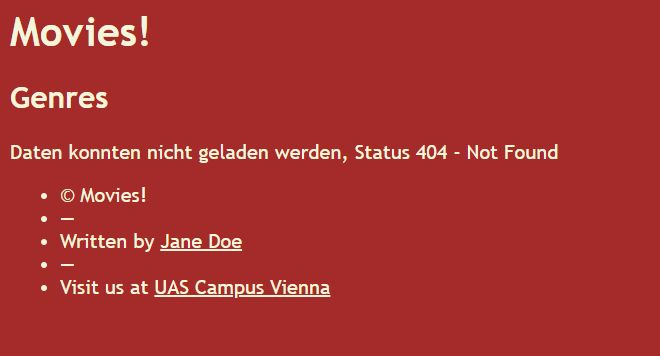
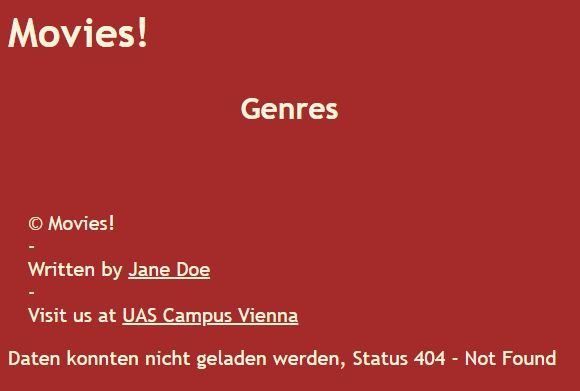
Adjustments

diff --git a/README.md b/README.md
@@ -1,6 +1,6 @@
 # Web Technologies - Exercise 3
 
-The third exercise is mainly about styling, but also about semantic HTML and a new endpoint on the server. As usual, you find detailed information about these parts in the **Tasks** section below.
+The third exercise is about styling, but also about semantic HTML and a new endpoint on the server. As usual, you find detailed information about these parts in the **Tasks** section below.
 
 To set up your working environment for the project, you will have to perform the same steps you already used in exercise 1 and 2. First, you **clone** the project and configure it in an IDE, then you **install** the project's dependencies. To do so, run 
 
@@ -54,7 +54,7 @@ Here is an overview of all the files:
 
 Here's a first overview of the three tasks, details follow below:
 
-1. Using HTML landmark elements we restructure our `body` to like this:
+1. Using HTML landmark elements we restructure our `body` to this:
 
     ![Basic structure of the page](images/structure.svg "Basic structure of the page")
 
@@ -71,7 +71,7 @@ Here's a first overview of the three tasks, details follow below:
 3. Finally, we lay out the contents of our elements using CSS Flexbox. We will center the content of the `header`, and lay out the contents of `nav`,`footer`, and `main` either horizontally or vertically.
 
 ### Checking your implementation
-As usual, to check whether your implementation is working as expected you **run** Cypress end-to-end tests. These tests are the exact same tests used to assess your implementation once you commit it to the GitHub repository. This time there are 11 of them, 2 of which already work. These two test whether the movie data on the server exists and is returned correctly from the `GET \movies`, in case you want to change the movie data 😊.
+As usual, to check whether your implementation is working as expected you **run** Cypress end-to-end tests. These tests are the exact same tests used to assess your implementation once you push it to GitHub classroom. This time there are 11 of them, 2 of which already work. These two test whether the movie data on the server exists and is returned correctly from the `GET \movies` - in case you want to change the movie data 😊.
 
 To start the tests, run
 
@@ -116,7 +116,7 @@ After this task and for the time being, the page's elements will be laid out ver
 
 The new endpoint returns the list of genres in your movie collection sorted alphabetically. 
 
-E.g., You have three movies in your model and these have genres
+E.g., you have three movies in your model and these have genres
 * `Action`, `Adventure`, `Drama`,
 * `Comedy`, `Drama`, `Fantasy` and
 * `Drama`, `Romance`.
@@ -125,7 +125,7 @@ Then for these movies your endpoints returns `["Action", "Adventure", "Comedy", 
 
 **1.3. In `index.js`.** Add buttons to the `nav` for all genres. Include one for *all* movies.
 
-In 1.1., you added an unordered list to the `nav` element. When the `XMLHttpRequest` add the end of `index.js` return the genres, add a list item (`li`) containing a button element (`button`) for each genre returned from the server. In addition, add a list item containing a button element for *all* the genres at the beginning of the list.
+In 1.1., you added an unordered list to the `nav` element. When the `XMLHttpRequest` add the end of `index.js` returns the genres, add a list item (`li`) containing a button element (`button`) for each genre returned from the server. In addition, add a list item containing a button element for *all* the genres at the beginning of the list.
 
 For the example above, e.g., the genres, "Action", "Adventure", "Comedy", "Drama", "Fantasy", and "Romance", you would add the following buttons:
 * *All*: will load *all* movies
